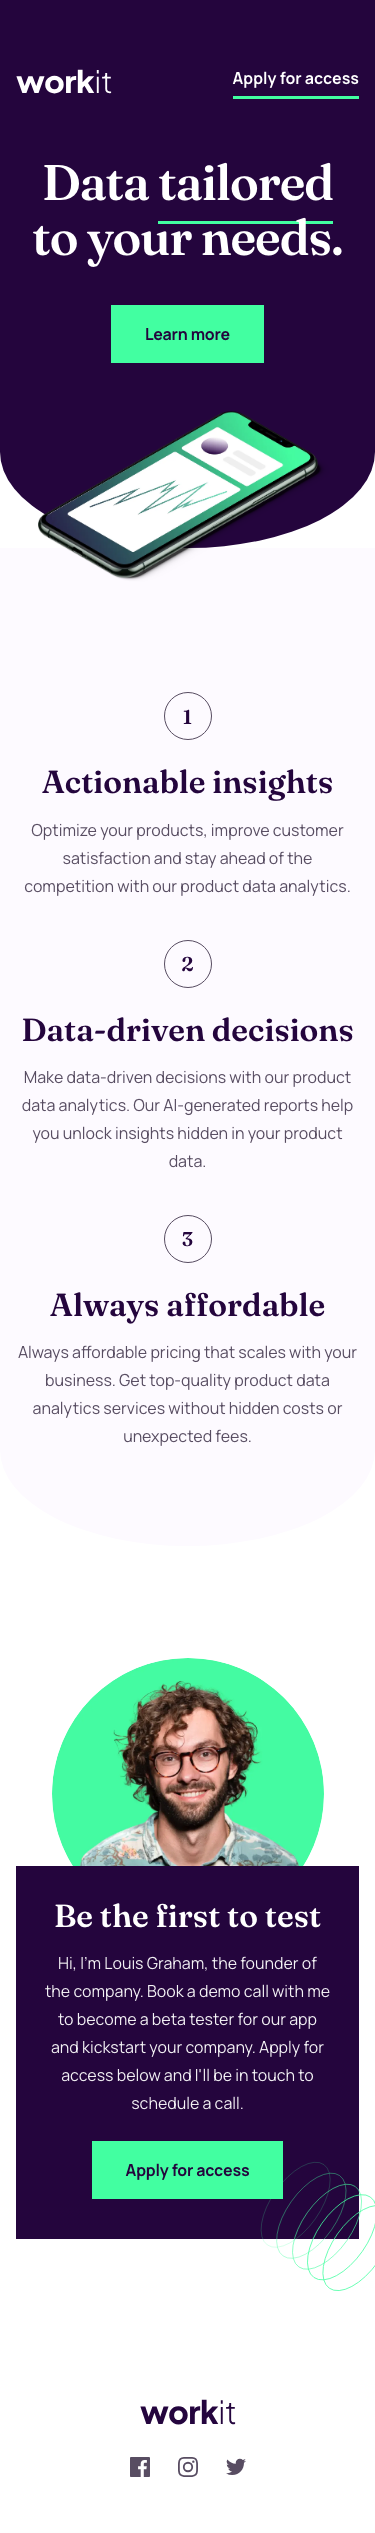
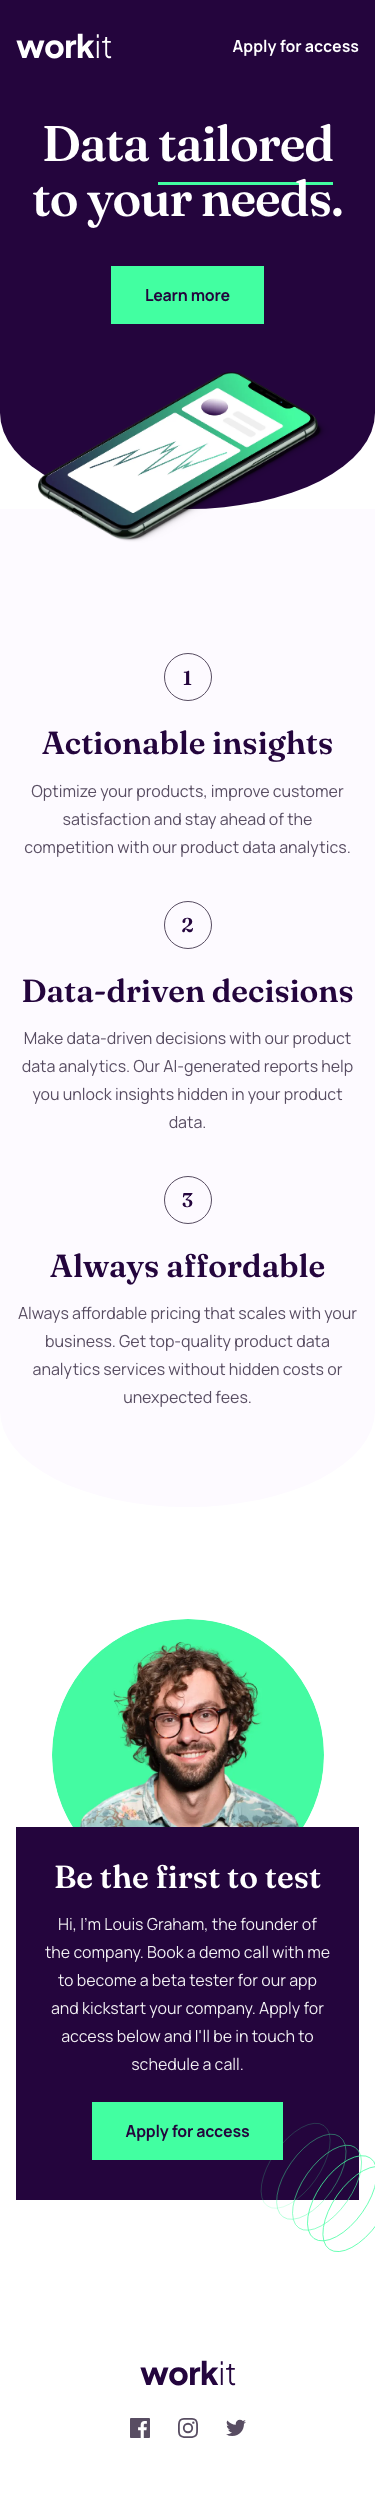
refactor(html): adopt landmark semantics per guideline #13
- Lift <header> to body level as page banner; wrap primary link in <nav>
- Wrap hero/features/founder sections in a single <main>
- Convert each feature <li> content to <article> (self-contained benefit card)
- Add aria-labelledby / aria-label to <section>s so landmarks have names

CSS: move dark-purple bg and top padding from hero onto .site-header; hero
drops top padding. No visual change.

diff --git a/src/index.html b/src/index.html
@@ -8,96 +8,108 @@
     <link rel="stylesheet" href="./styles/main.css" />
   </head>
   <body>
-    <!-- HERO -->
-    <section class="hero">
-      <div class="container">
-        <header class="site-header">
-          <a href="#" aria-label="Workit home">
-            <img src="/images/logo-light.svg" alt="Workit" width="96" height="32" />
-          </a>
+    <header class="site-header">
+      <div class="container site-header__inner">
+        <a href="#" aria-label="Workit home">
+          <img src="/images/logo-light.svg" alt="Workit" width="96" height="32" />
+        </a>
+        <nav aria-label="Primary">
           <a href="#apply" class="link-underline">Apply for access</a>
-        </header>
+        </nav>
+      </div>
+    </header>
 
-        <div class="hero__content">
-          <h1 class="hero__title">
-            Data <span class="accent-underline">tailored</span> to your needs.
-          </h1>
-          <div class="hero__cta">
-            <a href="#features" class="btn btn-primary">Learn more</a>
+    <main>
+      <!-- HERO -->
+      <section class="hero" aria-labelledby="hero-title">
+        <div class="container">
+          <div class="hero__content">
+            <h1 id="hero-title" class="hero__title">
+              Data <span class="accent-underline">tailored</span> to your needs.
+            </h1>
+            <div class="hero__cta">
+              <a href="#features" class="btn btn-primary">Learn more</a>
+            </div>
           </div>
         </div>
-      </div>
 
-      <img
-        class="hero__image"
-        src="/images/image-hero.webp"
-        alt="Workit analytics mobile app"
-        width="767"
-        height="505"
-      />
-    </section>
+        <img
+          class="hero__image"
+          src="/images/image-hero.webp"
+          alt="Workit analytics mobile app"
+          width="767"
+          height="505"
+        />
+      </section>
 
-    <!-- FEATURES -->
-    <section class="features" id="features">
-      <div class="container">
-        <ol class="features__list">
-          <li class="feature">
-            <span class="feature__num" aria-hidden="true">1</span>
-            <h2 class="feature__title">Actionable insights</h2>
-            <p class="feature__body">
-              Optimize your products, improve customer satisfaction and stay ahead of the
-              competition with our product data analytics.
-            </p>
-          </li>
-          <li class="feature">
-            <span class="feature__num" aria-hidden="true">2</span>
-            <h2 class="feature__title">Data-driven decisions</h2>
-            <p class="feature__body">
-              Make data-driven decisions with our product data analytics. Our AI-generated
-              reports help you unlock insights hidden in your product data.
-            </p>
-          </li>
-          <li class="feature">
-            <span class="feature__num" aria-hidden="true">3</span>
-            <h2 class="feature__title">Always affordable</h2>
-            <p class="feature__body">
-              Always affordable pricing that scales with your business. Get top-quality
-              product data analytics services without hidden costs or unexpected fees.
-            </p>
-          </li>
-        </ol>
-      </div>
-    </section>
+      <!-- FEATURES -->
+      <section class="features" id="features" aria-label="Product benefits">
+        <div class="container">
+          <ol class="features__list">
+            <li class="feature">
+              <article>
+                <span class="feature__num" aria-hidden="true">1</span>
+                <h2 class="feature__title">Actionable insights</h2>
+                <p class="feature__body">
+                  Optimize your products, improve customer satisfaction and stay ahead of the
+                  competition with our product data analytics.
+                </p>
+              </article>
+            </li>
+            <li class="feature">
+              <article>
+                <span class="feature__num" aria-hidden="true">2</span>
+                <h2 class="feature__title">Data-driven decisions</h2>
+                <p class="feature__body">
+                  Make data-driven decisions with our product data analytics. Our AI-generated
+                  reports help you unlock insights hidden in your product data.
+                </p>
+              </article>
+            </li>
+            <li class="feature">
+              <article>
+                <span class="feature__num" aria-hidden="true">3</span>
+                <h2 class="feature__title">Always affordable</h2>
+                <p class="feature__body">
+                  Always affordable pricing that scales with your business. Get top-quality
+                  product data analytics services without hidden costs or unexpected fees.
+                </p>
+              </article>
+            </li>
+          </ol>
+        </div>
+      </section>
 
-    <!-- FOUNDER -->
-    <section class="founder" id="apply">
-      <div class="container">
-        <div class="founder__inner">
-          <img
-            class="founder__image"
-            src="/images/image-founder.webp"
-            alt="Louis Graham, founder"
-            width="477"
-            height="477"
-          />
-          <div class="founder__card">
-            <h2 class="founder__title">Be the first to test</h2>
-            <p class="founder__body">
-              Hi, I'm Louis Graham, the founder of the company. Book a demo call with me
-              to become a beta tester for our app and kickstart your company. Apply for
-              access below and I'll be in touch to schedule a call.
-            </p>
-            <a href="#" class="btn btn-primary">Apply for access</a>
+      <!-- FOUNDER -->
+      <section class="founder" id="apply" aria-labelledby="founder-title">
+        <div class="container">
+          <div class="founder__inner">
             <img
-              class="founder__pattern"
-              src="/images/bg-pattern-3.svg"
-              alt=""
-              aria-hidden="true"
+              class="founder__image"
+              src="/images/image-founder.webp"
+              alt="Louis Graham, founder"
+              width="477"
+              height="477"
             />
+            <div class="founder__card">
+              <h2 id="founder-title" class="founder__title">Be the first to test</h2>
+              <p class="founder__body">
+                Hi, I'm Louis Graham, the founder of the company. Book a demo call with me
+                to become a beta tester for our app and kickstart your company. Apply for
+                access below and I'll be in touch to schedule a call.
+              </p>
+              <a href="#" class="btn btn-primary">Apply for access</a>
+              <img
+                class="founder__pattern"
+                src="/images/bg-pattern-3.svg"
+                alt=""
+                aria-hidden="true"
+              />
+            </div>
           </div>
         </div>
-      </div>
-    </section>
+      </section>
+    </main>
 
     <!-- FOOTER -->
     <footer class="site-footer">

diff --git a/src/styles/_layout.css b/src/styles/_layout.css
@@ -1,10 +1,21 @@
 /* ============ HEADER + HERO ============ */
 
+.site-header {
+  background-color: var(--color-dark-purple);
+  padding-block: 2rem 0;
+}
+
+.site-header__inner {
+  display: flex;
+  align-items: center;
+  justify-content: space-between;
+}
+
 .hero {
   position: relative;
   background-color: var(--color-dark-purple);
   color: var(--color-white);
-  padding-block: 2rem 4rem;
+  padding-block: 0 4rem;
   overflow: visible;
   /* Curved bottom */
   border-bottom-left-radius: 50% 6rem;
@@ -47,15 +58,8 @@
   }
 }
 
-.site-header {
-  display: flex;
-  align-items: center;
-  justify-content: space-between;
-  padding-block: 2rem 0;
-}
-
 .hero__content {
-  margin-top: 3.5rem;
+  padding-top: 3.5rem;
   text-align: center;
 }
 
@@ -78,7 +82,7 @@
     padding-block: 3.5rem 0;
   }
   .hero__content {
-    margin-top: 3.5rem;
+    padding-top: 3.5rem;
   }
   .hero__title {
     max-width: 40rem; /* 635px */
